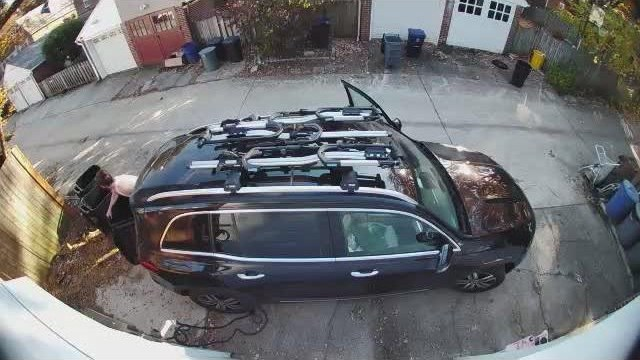
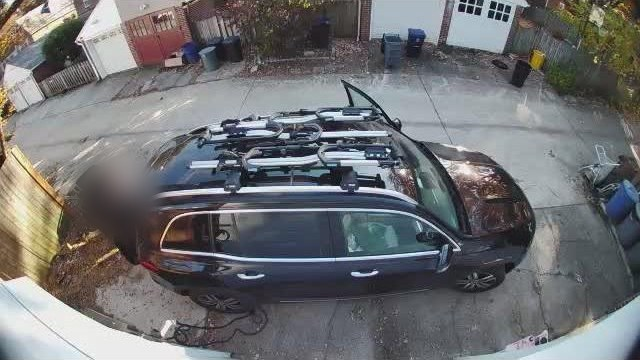
Parking pad post: blur the person in the daytime photo; tablet card rendered from fake data
Claude-Session: https://claude.ai/code/session_01NesPncgwxJJceh1h8hh6dM

Changed region(s): [[0.0938, 0.4278, 0.2812, 0.6722]]

diff --git a/content/posts/is-the-parking-spot-free-custom-ai-car-detection-home-assistant.md b/content/posts/is-the-parking-spot-free-custom-ai-car-detection-home-assistant.md
@@ -322,7 +322,10 @@ So by the time I turn into the alley, I've heard the answer and I have a picture
 
 The family room tablet also has the alley camera on a page of its own. Its bar shows the car the model identified next to the word "Alley", so a glance at the wall tells us which car is parked there.
 
-> **TODO(Jon):** still missing, and both are optional: (1) the CarPlay or Apple Home tile (a screenshot of the "Alley Garage Door" tile would be great, it's the most surprising part), and (2) the family room tablet's alley view with a car on the pad, so the car name shows. The screenshot you sent of the Wall Tablets page shows live door locks and Lauren's status, so I left it out.
+![The alley camera card from the family room tablet: the night picture with a Subaru on the pad, a badge reading Charging 7.2 kW, 12.4 kWh, 2 h, and a bar reading Subaru, $24 of $61 this month on the left and Alley on the right](/img/2026/10/parking-pad-tablet.jpg)
+*The alley card on the family room tablet. The real dashboard code, but running against a fake Home Assistant: the charging numbers and costs are made up, and the picture is one of the snapshots above.*
+
+> **TODO(Jon):** still missing, and optional: a screenshot of the "Alley Garage Door" tile in CarPlay or Apple Home. It's the most surprising part of the setup. Blur anything private.
 
 ## Step 8: Keep the Camera Honest
 
